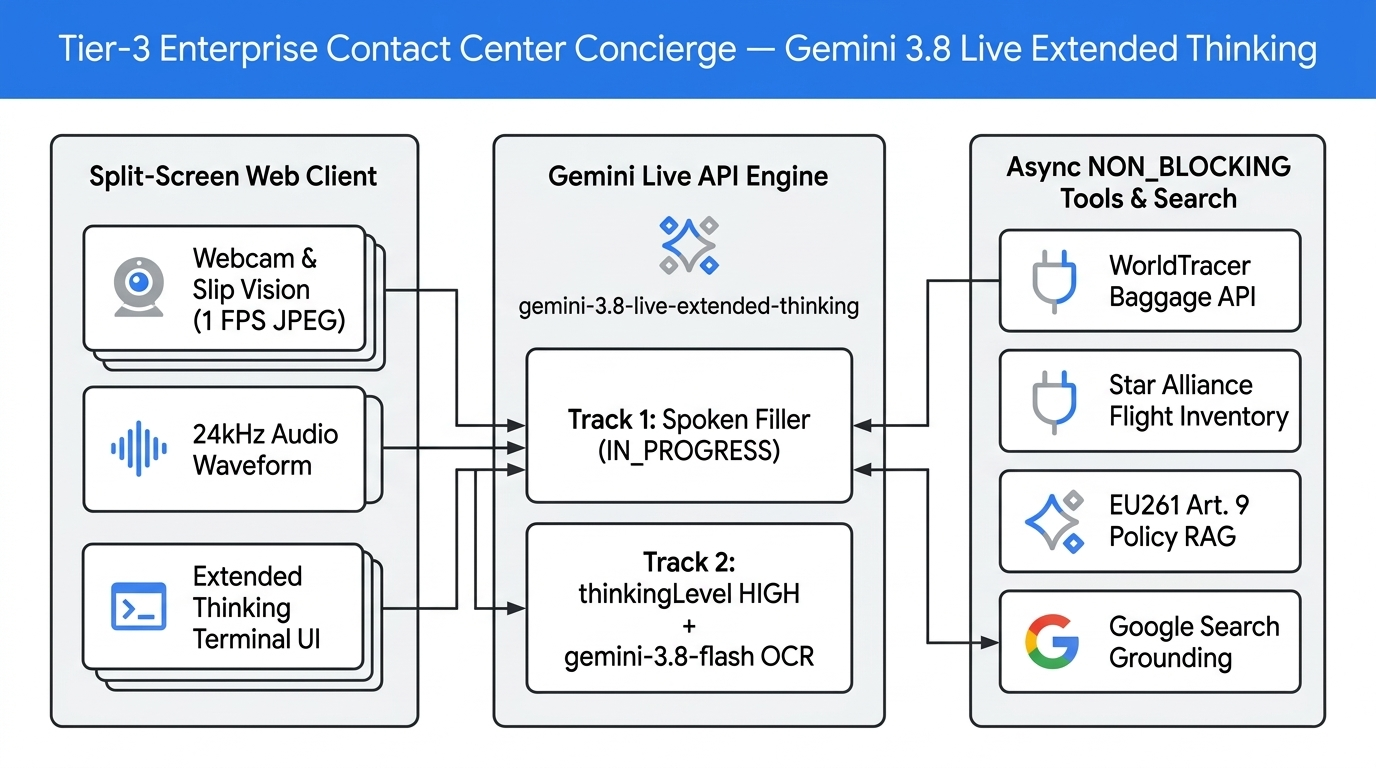
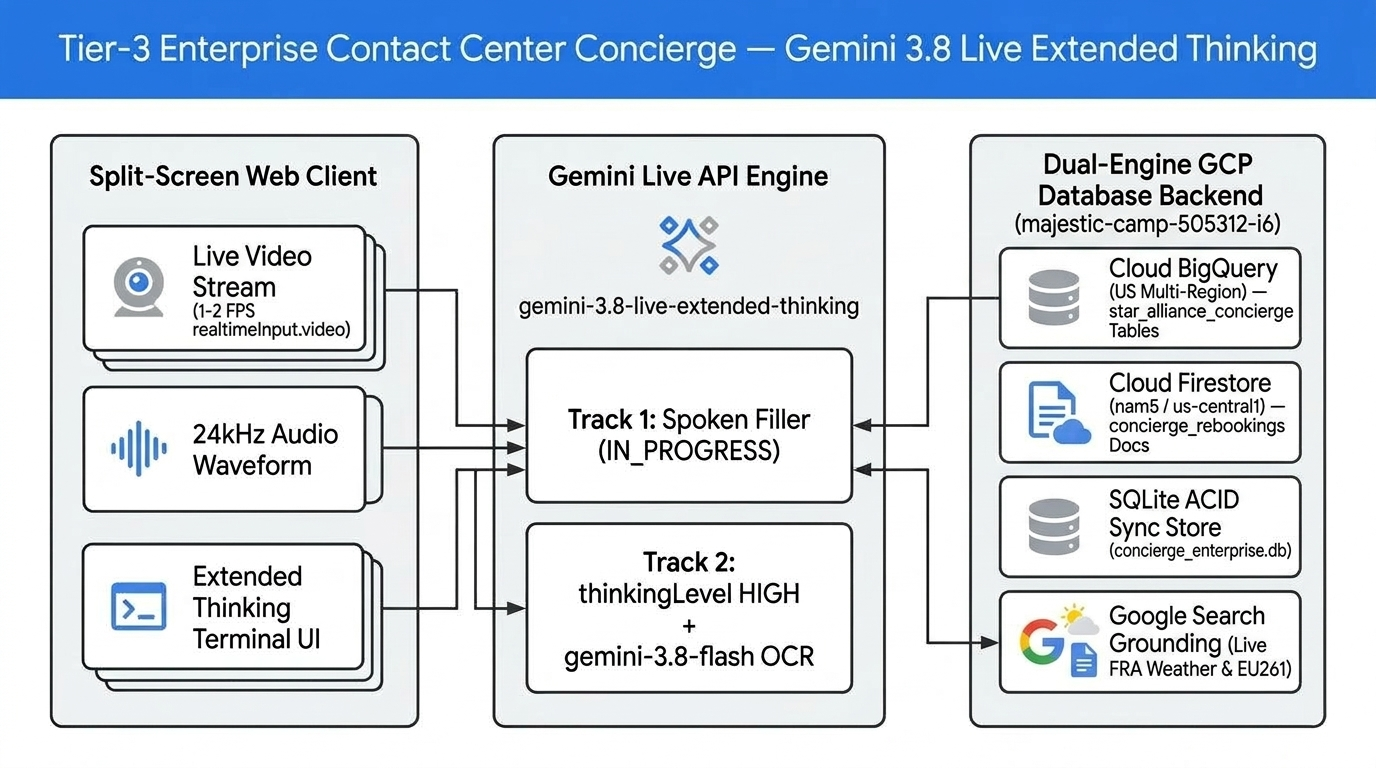
Update Nano Banana architecture diagram and README with BigQuery US, Firestore nam5, and continuous video streaming

diff --git a/README.md b/README.md
@@ -1,22 +1,43 @@
 # Tier-3 Enterprise Contact Center Concierge (`gemini-3.8-live-extended-thinking`)
 
-An interactive **Split-Screen Multimodal Voice & Vision Demo** built for **Gemini 3.8 Live Extended Thinking** (`gemini-3.8-live-extended-thinking`) and **Gemini 3.8 Flash** (`gemini-3.8-flash`).
+An interactive **Split-Screen Continuous Video & Voice Concierge** built for **Gemini 3.8 Live Extended Thinking** (`gemini-3.8-live-extended-thinking`) and **Gemini 3.8 Flash** (`gemini-3.8-flash`).
 
 It demonstrates how an enterprise airline/fintech VIP concierge handles a complex Frankfurt (`FRA`) flight disruption (`LH401 -> JFK`, Weather Code `WX84`) by:
-1. **Reading a Boarding Pass & Star Alliance Priority Baggage Claim Slip (`0220-774910-PRIO`) via Live Video/Camera (`realtimeInput.video`)**
-2. **Speaking Immediate Conversational Fillers (`turnComplete: true` while `interaction_status: "IN_PROGRESS"`)** — eliminating awkward dead air while asking the passenger whether they prefer a **Morning** or **Evening** departure.
-3. **Executing Asynchronous `NON_BLOCKING` Multi-Tool CRM & Legal RAG Calls (`behavior: "NON_BLOCKING"`) + Google Search Grounding** in parallel while the conversation continues.
-4. **Synthesizing Multi-Rule Legal & VIP Nuance (`thinkingLevel: "HIGH"`)** — distinguishing **EU261 Article 5(3)** (weather exemption for the €600 statutory cash penalty) from **EU261 Article 9 ("Right to Care")** (mandatory €245 Sheraton Frankfurt Airport Hotel reimbursement + €45 meals even during weather) and applying the **Star Alliance Gold / United 1K VIP Override** ($350 goodwill travel credit + 25,000 bonus miles + automatic WorldTracer priority bag transfer).
+1. **Continuous Live Camera Video Streaming (`realtimeInput.video` @ 1–2 FPS)**: Automatically starts the user's webcam on page load and streams live JPEG video frames continuously after the upstream `BidiGenerateContent` `setupComplete` handshake—no manual picture taking or snapshot clicks required. Gemini reads the printed Boarding Pass (`PNR: LH8942X`), Priority Bag Tag (`0220-774910-PRIO`), and Sheraton Frankfurt Hotel receipt (`EUR 245.00`) directly from the live video stream while the user speaks.
+2. **Immediate Conversational Fillers (`turnComplete: true` while `interaction_status: "IN_PROGRESS"`)**: Eliminates dead air by immediately acknowledging the visual boarding pass on the video stream and asking the passenger whether they prefer a **Morning** or **Evening** departure while background database queries run.
+3. **Asynchronous `NON_BLOCKING` Database Queries (`behavior: "NON_BLOCKING"`) + Google Search Grounding**: Executes real SQL queries and ACID rebooking transactions in parallel while the voice conversation continues.
+4. **Multi-Rule Legal & VIP Nuance Synthesis (`thinkingLevel: "HIGH"`)**: Distinguishes **EU261 Article 5(3)** (weather exemption for the €600 statutory cash penalty) from **EU261 Article 9 ("Right to Care")** (mandatory €245 Sheraton Frankfurt Airport Hotel reimbursement + €45 meals even during weather) and applies the **Star Alliance Gold / United 1K VIP Override** ($350 goodwill travel credit + 25,000 bonus miles + automatic WorldTracer priority bag transfer).
 
 ---
 
 ## Architecture & Asynchronous Dual-Track Lifecycle (Nano Banana Diagrams)
 
-### 1. System Topology (`gemini-3.8-live-extended-thinking` + `gemini-3.8-flash`)
+### 1. System & Database Topology (`gemini-3.8-live-extended-thinking` + `BigQuery US` + `Firestore nam5`)
 ![Tier-3 Enterprise Contact Center Concierge Architecture Topology](public/samples/architecture-topology-nano-banana.jpg)
 
 ### 2. Asynchronous Dual-Track Lifecycle (`interactionStatus: IN_PROGRESS -> IDLE`)
 ![Gemini 3.8 Live Extended Thinking Dual-Track Lifecycle Sequence Diagram](public/samples/extended-thinking-sequence-nano-banana.jpg)
+
+---
+
+## Real Dual-Engine Database Backend & Regions (`src/database_backend.js`)
+
+Instead of hardcoded static responses, the concierge tools execute real parameterized SQL (`SELECT`, `INSERT`, `UPDATE`) and transactional document writes via [`src/database_backend.js`](src/database_backend.js) and [`src/seed_gcp_backend.js`](src/seed_gcp_backend.js):
+
+| Storage Layer | Resource / Table | Region / Location | Role in Concierge Tool Execution |
+| :--- | :--- | :--- | :--- |
+| **Google Cloud BigQuery** (`your-gcp-project-id`) | Dataset: `star_alliance_concierge`<br/>• `pnr_baggage_records`<br/>• `star_alliance_flight_inventory`<br/>• `eu261_policy_rules` | **`US` Multi-Region** (`location: 'US'`) | Cloud analytical & operational store for PNR/WorldTracer lookup, Star Alliance seat inventory, and EU261 legal rules (`@google-cloud/bigquery`). |
+| **Google Cloud Firestore** (`your-gcp-project-id`) | Collection: `concierge_rebookings`<br/>(`projects/your-gcp-project-id/databases/(default)/documents/concierge_rebookings`) | **`nam5` (`us-central1` Multi-Region)** | Cloud document store for issued rebooking transactions (`TXN-...`), hotel reimbursements, and VIP goodwill vouchers (`@google-cloud/firestore`). |
+| **Synchronized Local SQLite ACID Store** | `data/concierge_enterprise.db` (`better-sqlite3`, WAL mode) | **Local Persistent Disk (`data/concierge_enterprise.db`)** | Always-on local relational SQL engine that executes every parameterized `SELECT`, `INSERT`, and `UPDATE` in real time and automatically syncs with BigQuery (`US`) and Firestore (`nam5`) when `gcloud` Application Default Credentials (ADC) are active. |
+
+### Provisioning / Syncing Remote BigQuery (`US`) & Firestore (`nam5`) Tables
+If your workstation's `gcloud` Application Default Credentials (ADC) token needs refreshing, run:
+```bash
+gcloud auth application-default login
+gcloud config set project your-gcp-project-id
+npm run seed:gcp
+```
+Even before running `gcloud auth application-default login`, `src/database_backend.js` executes 100% real SQL queries and ACID transactions against `data/concierge_enterprise.db` (inspectable live at [`http://localhost:3080/api/db-state`](http://localhost:3080/api/db-state)).
 
 ---
 
@@ -41,7 +62,8 @@ npm install
 ```bash
 npm start
 ```
-* **Main Split-Screen Concierge App:** [http://localhost:3080](http://localhost:3080)
+* **Main Split-Screen Concierge App (Auto-Starts Webcam Stream):** [http://localhost:3080](http://localhost:3080)
+* **Live Database Table & Transaction State JSON:** [http://localhost:3080/api/db-state](http://localhost:3080/api/db-state)
 * **Printable / Camera-Ready Boarding Pass, Receipt & Architecture Kit:** [http://localhost:3080/samples/printable-demo-kit.html](http://localhost:3080/samples/printable-demo-kit.html)
 
 ### 3. Run the Automated Evaluation Suite
@@ -49,7 +71,7 @@ npm start
 npm run eval
 ```
 Runs 4 end-to-end evaluations (`evals/run_evals.js`):
-- **EVAL-01**: Verifies `behavior: "NON_BLOCKING"` across all 4 CRM/WorldTracer/EU261 tool declarations and deterministic engine responses.
+- **EVAL-01**: Verifies `behavior: "NON_BLOCKING"` across all 4 CRM/WorldTracer/EU261 tool declarations and SQL database execution responses.
 - **EVAL-02**: Verifies multimodal Visual OCR extraction via `gemini-3.8-flash` against the generated boarding pass (`public/samples/sample-fra-boarding-pass-slip.jpg`) and hotel receipt (`public/samples/sample-fra-hotel-pir-receipt.jpg`).
 - **EVAL-03**: Connects a live WebSocket client to `gemini-3.8-live-extended-thinking`, streams the JPEG boarding pass frame via `realtimeInput.video` + escalation prompt, and validates `interaction_status` (`IN_PROGRESS` ➔ `IDLE`), native audio streaming, and `NON_BLOCKING` tool execution.
 - **EVAL-04**: Grades the model's legal & VIP policy synthesis via `gemini-3.8-flash` against the 4 EU261 Article 5(3) vs. Article 9 + Star Alliance Gold rubrics.
